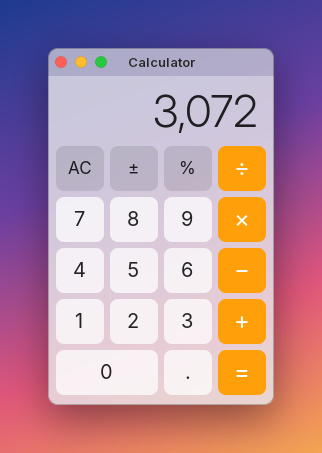
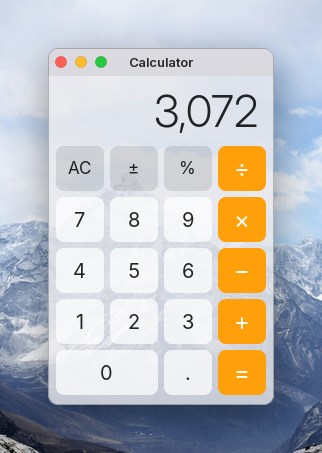
Site and screenshots: the Mountains wallpaper throughout
Screenshots regenerated (tools/readme-shots.py) on the new default
wallpaper, day for Light and night for Dark. The project page takes the
same look: the wallpaper softly behind the hero (night in Dark), snow and
night-sky colours, the night desktop in Dark, and a Wallpapers section.

Claude-Session: https://claude.ai/code/session_013JHgujc28JdHH6TW3AtgCP

diff --git a/docs/index.html b/docs/index.html
@@ -15,26 +15,27 @@
 <style>
 :root {
   --accent: #3b82f6;
-  --accent-2: #a855f7;
-  --bg: #fbfbfd;
-  --bg-soft: #f2f2f7;
+  --accent-2: #7c6fe0;
+  --bg: #f7f9fc;
+  --bg-soft: #eef2f8;
+  --hero: url("img/hero-day.jpg");
   --card: rgba(255, 255, 255, 0.72);
   --card-border: rgba(0, 0, 0, 0.07);
   --text: #16171d;
   --muted: #5d6070;
-  --shadow: 0 30px 80px -20px rgba(30, 20, 80, 0.35);
+  --shadow: 0 30px 80px -20px rgba(20, 40, 90, 0.35);
   --radius: 22px;
   --ease: cubic-bezier(0.2, 0.8, 0.2, 1);
 }
 @media (prefers-color-scheme: dark) {
   :root:not([data-theme="light"]) {
-    --bg: #0d0e16; --bg-soft: #151724; --card: rgba(30, 32, 48, 0.66);
+    --bg: #0a0f1c; --bg-soft: #101829; --card: rgba(24, 32, 52, 0.66); --hero: url("img/hero-night.jpg");
     --card-border: rgba(255, 255, 255, 0.08); --text: #f2f3f8; --muted: #a2a5b8;
     --shadow: 0 30px 90px -20px rgba(0, 0, 0, 0.7);
   }
 }
 :root[data-theme="dark"] {
-  --bg: #0d0e16; --bg-soft: #151724; --card: rgba(30, 32, 48, 0.66);
+  --bg: #0a0f1c; --bg-soft: #101829; --card: rgba(24, 32, 52, 0.66); --hero: url("img/hero-night.jpg");
   --card-border: rgba(255, 255, 255, 0.08); --text: #f2f3f8; --muted: #a2a5b8;
   --shadow: 0 30px 90px -20px rgba(0, 0, 0, 0.7);
 }
@@ -61,7 +62,7 @@ nav .bar {
   border: 1px solid var(--card-border); box-shadow: 0 8px 30px -12px rgba(0,0,0,.25);
 }
 nav .logo { font-weight: 800; letter-spacing: -.02em; text-decoration: none; display: flex; align-items: center; gap: 8px; }
-nav .logo i { width: 18px; height: 18px; border-radius: 6px; background: linear-gradient(135deg, #3b5bdb, #9b4dca 45%, #f06595 75%, #ffa94d); }
+nav .logo i { width: 18px; height: 18px; border-radius: 6px; background: linear-gradient(160deg, #8fc1ff, #3b82f6 45%, #5b5fd6 80%, #2a2f6e); }
 nav .links { display: flex; gap: 18px; font-size: 14px; color: var(--muted); }
 nav .links a { text-decoration: none; transition: color .2s; }
 nav .links a:hover { color: var(--text); }
@@ -78,14 +79,15 @@ nav .links a:hover { color: var(--text); }
 .btn.small { padding: 9px 16px; font-size: 14px; }
 
 /* -- hero ----------------------------------------------------------------------------- */
-.hero { position: relative; padding: 150px 0 60px; text-align: center; isolation: isolate; }
-.blobs { position: absolute; inset: -10% -10% 30%; z-index: -1; filter: blur(70px); opacity: .55; pointer-events: none; }
-.blobs span { position: absolute; border-radius: 50%; animation: drift 18s ease-in-out infinite alternate; }
-.blobs span:nth-child(1) { width: 46vw; height: 46vw; left: 2%; top: 4%; background: #3b5bdb; }
-.blobs span:nth-child(2) { width: 40vw; height: 40vw; left: 34%; top: -6%; background: #9b4dca; animation-delay: -6s; }
-.blobs span:nth-child(3) { width: 38vw; height: 38vw; right: 0; top: 10%; background: #f06595; animation-delay: -12s; }
-.blobs span:nth-child(4) { width: 28vw; height: 28vw; right: 14%; top: 34%; background: #ffa94d; animation-delay: -3s; }
-@keyframes drift { to { transform: translate(4vw, 3vw) scale(1.12); } }
+.hero { position: relative; padding: 150px 0 60px; text-align: center; isolation: isolate; overflow-x: clip; }
+/* Sonata's default wallpaper behind the hero (day / night), fading into the page */
+.sky { position: absolute; inset: 0 0 auto; height: min(980px, 100vh + 260px); z-index: -1; pointer-events: none;
+  background: var(--hero) center 30% / cover no-repeat; animation: settle 2.4s var(--ease) both; overflow: hidden;
+  filter: blur(14px) saturate(1.15); transform: scale(1.04);   /* soft, so the screenshot stands out */
+  -webkit-mask-image: linear-gradient(#000 45%, transparent); mask-image: linear-gradient(#000 45%, transparent); }
+.sky::after { content: ""; position: absolute; inset: 0;
+  background: linear-gradient(color-mix(in srgb, var(--bg) 50%, transparent), color-mix(in srgb, var(--bg) 20%, transparent) 40%, var(--bg)); }
+@keyframes settle { from { transform: scale(1.1); opacity: 0; } }
 .eyebrow {
   display: inline-flex; gap: 8px; align-items: center; font-size: 13px; font-weight: 600; color: var(--muted);
   padding: 6px 14px; border-radius: 999px; background: var(--card); border: 1px solid var(--card-border);
@@ -97,7 +99,7 @@ h1 {
   margin: 22px auto 20px; max-width: 13ch;
 }
 .grad {
-  background: linear-gradient(100deg, #4c6ef5, #9b4dca 35%, #f06595 65%, #ff922b);
+  background: linear-gradient(100deg, #2563eb, #3b82f6 35%, #6d6fe0 70%, #9b6fd0);
   -webkit-background-clip: text; background-clip: text; color: transparent;
 }
 .lead { font-size: clamp(17px, 2.1vw, 21px); color: var(--muted); max-width: 36em; margin: 0 auto 32px; }
@@ -108,6 +110,15 @@ h1 {
   transform-origin: 50% 0; transition: transform 1.1s var(--ease);
 }
 .shot.flat { transform: none; }
+.shot .dk { display: none; }                 /* the night desktop when the page is dark */
+.grad-night, :root[data-theme="dark"] .grad { background-image: linear-gradient(100deg, #60a5fa, #818cf8 50%, #c4b5fd); }
+@media (prefers-color-scheme: dark) { :root:not([data-theme="light"]) .grad { background-image: linear-gradient(100deg, #60a5fa, #818cf8 50%, #c4b5fd); } }
+:root[data-theme="dark"] .shot .dk { display: block; }
+:root[data-theme="dark"] .shot .lt { display: none; }
+@media (prefers-color-scheme: dark) {
+  :root:not([data-theme="light"]) .shot .dk { display: block; }
+  :root:not([data-theme="light"]) .shot .lt { display: none; }
+}
 .shot img { width: 100%; aspect-ratio: 16 / 9; object-fit: cover; }
 .trust { margin-top: 30px; color: var(--muted); font-size: 14px; display: flex; gap: 22px; justify-content: center; flex-wrap: wrap; }
 .trust span::before { content: "✓"; color: var(--accent); font-weight: 800; margin-right: 6px; }
@@ -125,7 +136,7 @@ h2 { font-size: clamp(32px, 4.6vw, 56px); line-height: 1.07; letter-spacing: -0.
   backdrop-filter: blur(16px); -webkit-backdrop-filter: blur(16px);
   transition: transform .35s var(--ease), box-shadow .35s var(--ease);
 }
-.card:hover { transform: translateY(-4px); box-shadow: 0 22px 50px -24px rgba(40, 30, 90, .35); }
+.card:hover { transform: translateY(-4px); box-shadow: 0 22px 50px -24px rgba(20, 40, 90, .35); }
 .card .ico {
   width: 46px; height: 46px; border-radius: 13px; display: grid; place-items: center; font-size: 22px; margin-bottom: 16px;
   background: linear-gradient(135deg, color-mix(in srgb, var(--accent) 22%, transparent), color-mix(in srgb, var(--accent-2) 22%, transparent));
@@ -156,6 +167,14 @@ h2 { font-size: clamp(32px, 4.6vw, 56px); line-height: 1.07; letter-spacing: -0.
 .frame img { width: 100%; aspect-ratio: 16 / 9; object-fit: cover; transition: opacity .5s var(--ease); }
 .frame img.top { position: absolute; inset: 0; }
 .frame .tint { position: absolute; inset: 0; background: var(--accent); mix-blend-mode: color; opacity: .14; transition: background-color .4s; pointer-events: none; }
+
+/* -- wallpapers ----------------------------------------------------------------------- */
+.walls { display: grid; gap: 14px; grid-template-columns: repeat(5, 1fr); margin-top: 44px; }
+.walls figure { margin: 0; }
+.walls img { width: 100%; aspect-ratio: 3 / 2; object-fit: cover; border-radius: 12px; border: 1px solid var(--card-border);
+  box-shadow: 0 14px 30px -20px rgba(10, 20, 50, .5); transition: transform .4s var(--ease); }
+.walls figure:hover img { transform: translateY(-4px) scale(1.02); }
+.walls figcaption { margin-top: 8px; font-size: 13.5px; color: var(--muted); text-align: center; }
 
 /* -- gallery -------------------------------------------------------------------------- */
 .gallery { display: grid; gap: 18px; grid-template-columns: repeat(12, 1fr); }
@@ -213,6 +232,7 @@ footer .wrap { display: flex; justify-content: space-between; gap: 20px; flex-wr
   nav .links { display: none; }
   .yours, .install { grid-template-columns: 1fr; gap: 32px; }
   .gallery figure, .gallery figure:nth-child(1), .gallery figure:nth-child(2) { grid-column: span 12; }
+  .walls { grid-template-columns: repeat(2, 1fr); }
   section { padding: 80px 0; }
   .hero { padding-top: 120px; }
 }
@@ -234,7 +254,7 @@ footer .wrap { display: flex; justify-content: space-between; gap: 20px; flex-wr
 </nav>
 
 <header class="hero" id="top">
-  <div class="blobs" aria-hidden="true"><span></span><span></span><span></span><span></span></div>
+  <div class="sky" aria-hidden="true"></div>
   <div class="wrap">
     <span class="eyebrow">Free and open source <b>·</b> Alpha</span>
     <h1>Now you have <span class="grad">no excuse</span> not to switch to Linux.</h1>
@@ -245,7 +265,8 @@ footer .wrap { display: flex; justify-content: space-between; gap: 20px; flex-wr
       <a class="btn ghost" href="#apps">See it in action</a>
     </div>
     <div class="shot" id="heroShot">
-      <img src="screenshots/controlcenter.png" alt="The Sonata desktop with its Dock, menu bar and Control Center" width="1920" height="1080">
+      <img class="lt" src="screenshots/controlcenter.png" alt="The Sonata desktop with its Dock, menu bar and Control Center" width="1920" height="1080">
+      <img class="dk" src="screenshots/desktop-dark.png" alt="The Sonata desktop in Dark Mode, Mountains at night" width="1920" height="1080">
     </div>
     <div class="trust"><span>Free forever</span><span>Your data stays on your computer</span><span>Light and Dark</span><span>Made for everyday people</span></div>
   </div>
@@ -305,7 +326,23 @@ footer .wrap { display: flex; justify-content: space-between; gap: 20px; flex-wr
   </div>
 </section>
 
-<section id="apps">
+<section id="walls">
+  <div class="wrap center">
+    <p class="kicker reveal">Wallpapers included</p>
+    <h2 class="reveal" style="max-width:22ch">A view you'll want to look at.</h2>
+    <p class="sub reveal">Ten wallpapers come with Sonata, one click away in Settings. The default, Mountains, turns
+      from snowy peaks by day to a starry sky at night with Dark Mode.</p>
+    <div class="walls">
+      <figure class="reveal"><img src="img/walls/mountains.jpg" alt="Mountains, day and night" loading="lazy"><figcaption>Mountains</figcaption></figure>
+      <figure class="reveal"><img src="img/walls/above-the-clouds.jpg" alt="Peaks above a sea of clouds" loading="lazy"><figcaption>Above the Clouds</figcaption></figure>
+      <figure class="reveal"><img src="img/walls/starry-night.jpg" alt="Mountains under the Milky Way" loading="lazy"><figcaption>Starry Night</figcaption></figure>
+      <figure class="reveal"><img src="img/walls/lake-cabin.jpg" alt="A cabin on a mountain lake" loading="lazy"><figcaption>Lake Cabin</figcaption></figure>
+      <figure class="reveal"><img src="img/walls/rolling-hills.jpg" alt="Green rolling hills" loading="lazy"><figcaption>Rolling Hills</figcaption></figure>
+    </div>
+  </div>
+</section>
+
+<section id="apps" class="soft">
   <div class="wrap">
     <div class="center">
       <p class="kicker reveal">Apps included</p>
@@ -333,7 +370,7 @@ footer .wrap { display: flex; justify-content: space-between; gap: 20px; flex-wr
   </div>
 </section>
 
-<section class="soft">
+<section>
   <div class="wrap">
     <p class="kicker reveal">And more</p>
     <h2 class="reveal">The things you'd miss, already here.</h2>
@@ -354,7 +391,7 @@ footer .wrap { display: flex; justify-content: space-between; gap: 20px; flex-wr
   </div>
 </section>
 
-<section id="get">
+<section id="get" class="soft">
   <div class="wrap install">
     <div>
       <p class="kicker reveal">Get Sonata</p>

diff --git a/tools/readme-shots.py b/tools/readme-shots.py
@@ -49,10 +49,16 @@ TITLEBAR_H = 28              # the compositor's title bar (config/wayfire.ini)
 MARGIN = 48                  # wallpaper around a framed window
 RADIUS = 10                  # r_window token
 MAX_BYTES = 350 * 1024
-# Sonata's default wallpaper (sonata2/shell/wallpaper.py): linear-gradient(160deg, ...)
-WALL_ANGLE = 160
-WALL_STOPS = ((0.0, (0x1d, 0x3b, 0x8f)), (0.38, (0x6b, 0x3f, 0xa0)), (0.70, (0xe0, 0x56, 0x7a)),
-              (1.0, (0xf3, 0xa4, 0x52)))
+# Sonata's default wallpaper (wallpapers.py "Mountains"): day in Light, night in Dark
+
+
+def wall(size, dark: bool = False):
+    """The default wallpaper cover-fit to `size` (RGBA), as the desktop shows it."""
+    from PIL import Image, ImageOps
+    from sonata2 import wallpapers
+    path = wallpapers.DEFAULT.dark if dark else wallpapers.DEFAULT.light
+    return ImageOps.fit(Image.open(path).convert("RGB"), size, Image.LANCZOS, centering=(0.5, 0.45)).convert("RGBA")
+
 
 # name -> (appearance, window size); the capture function is shot_<base name>
 SHOTS = {
@@ -981,15 +987,15 @@ def scene_base(name: str, raws: dict, work: str):
     """(base, frosted) PNG paths for a scene."""
     from PIL import Image
     src = SCENES[name][1]
-    wall = gradient(SCREEN, WALL_ANGLE, WALL_STOPS).convert("RGBA")
+    wall_img = wall(SCREEN, SCENES[name][0] == "dark")
     if src == "wall":
-        img = wall
+        img = wall_img
     elif src in INTERNAL:                                # a zoomed window between menu bar and Dock
         with open(raws[src] + ".json") as f:
             meta = json.load(f)
-        img = wall.copy()
+        img = wall_img.copy()
         layer = window_layer(Image.open(raws[src]).convert("RGBA"), meta)
-        place(img, wall, layer, ((SCREEN[0] - layer.width) // 2, BAR_H + 6), False)
+        place(img, wall_img, layer, ((SCREEN[0] - layer.width) // 2, BAR_H + 6), False)
     else:
         img = Image.open(raws[src]).convert("RGBA")
     base = os.path.join(work, name + "-base.png")
@@ -1135,9 +1141,9 @@ def frame(raw_path: str, out_path: str) -> int:
         meta = json.load(f)
     layer = window_layer(Image.open(raw_path).convert("RGBA"), meta)
     w, h = layer.size
-    wall = gradient((w + 2 * MARGIN, h + 2 * MARGIN), WALL_ANGLE, WALL_STOPS).convert("RGBA")
-    canvas = wall.copy()
-    place(canvas, wall, layer, (MARGIN, MARGIN), meta["mode"] == "dark")
+    bg = wall((w + 2 * MARGIN, h + 2 * MARGIN), meta["mode"] == "dark")
+    canvas = bg.copy()
+    place(canvas, bg, layer, (MARGIN, MARGIN), meta["mode"] == "dark")
     return save_png(canvas, out_path)
 
 
@@ -1145,8 +1151,8 @@ def hero(raws: dict, out_path: str) -> int:
     """Several windows overlapping on the desktop, like a real session."""
     from PIL import Image
     size = (1400, 860)
-    wall = gradient(size, WALL_ANGLE, WALL_STOPS).convert("RGBA")
-    canvas = wall.copy()
+    bg = wall(size)
+    canvas = bg.copy()
     plan = (("music", .62, (40, 40)), ("calendar", .60, (690, 56)), ("notes", .60, (716, 400)),
             ("files", .74, (170, 370)))
     for name, s, pos in plan:
@@ -1156,7 +1162,7 @@ def hero(raws: dict, out_path: str) -> int:
             meta = json.load(f)
         layer = window_layer(Image.open(raws[name]).convert("RGBA"), meta)
         layer = layer.resize((round(layer.width * s), round(layer.height * s)), Image.LANCZOS)
-        place(canvas, wall, layer, pos, meta["mode"] == "dark")
+        place(canvas, bg, layer, pos, meta["mode"] == "dark")
     return save_png(canvas, out_path)
 
 
